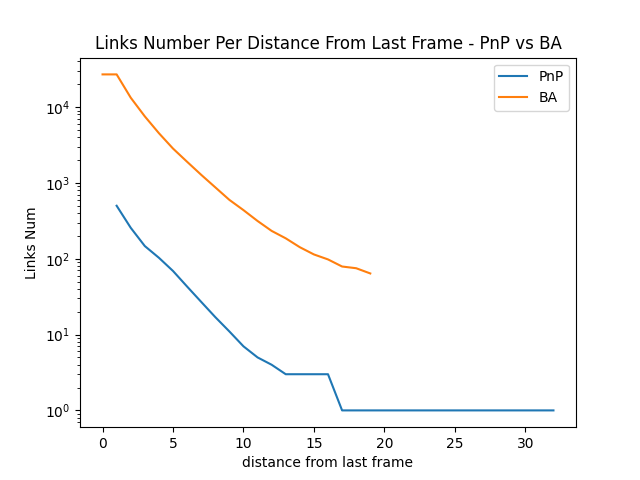
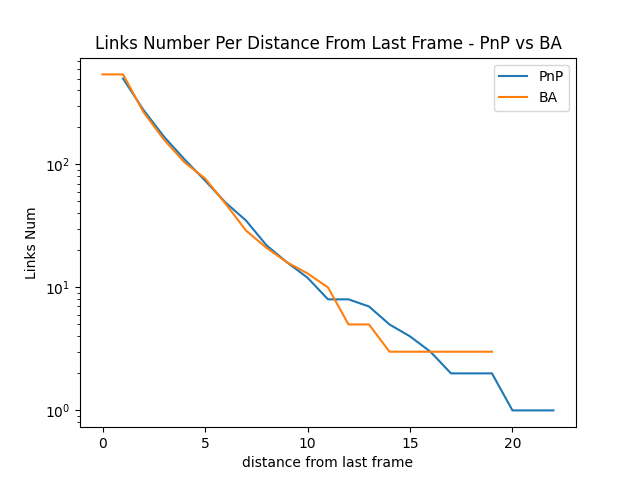
updates

diff --git a/VAN_ex/code/ProjectReport.py b/VAN_ex/code/ProjectReport.py
@@ -68,7 +68,7 @@ def plot_bundle_error_before_after_opt(keyframes_list, mean_factor_error_before,
 
 
 def PnP_median_projection_error_per_distance(pnp_mats):
-    random_track_ids = random.sample(range(db.get_tracks_number()), 500)
+    random_track_ids = random.sample(range(db.get_tracks_number()), 1000)
     # left_camera_mats_in_world_coordinates = db.get_left_camera_mats_in_world_coordinates()
     # key = distance from last frame of track, value = list of projection errors (from different tracks)
     right_projection_err = dict()

diff --git a/VAN_ex/code/Bundle/BundleWindow.py b/VAN_ex/code/Bundle/BundleWindow.py
@@ -334,7 +334,7 @@ class BundleWindow:
                 value is list of errors in left cameras
         :param projection_error_right: same as above, for right cameras
         """
-        random_track_ids = random.sample(self._tracks, 200)
+        random_track_ids = random.sample(self._tracks, 8)
         for track_id in random_track_ids:
             pt_3d = self._current_values.atPoint3(gtsam.symbol(POINT_SYMBOL, track_id))
             track_obj = self._db.get_track_obj(track_id)

diff --git a/VAN_ex/code/utils.py b/VAN_ex/code/utils.py
@@ -1,7 +1,6 @@
 import cv2 as cv
 import gtsam
 import numpy as np
-# from matplotlib import pyplot as plt
 import plotly.express as px
 import plotly.graph_objs as go
 from matplotlib import pyplot as plt
